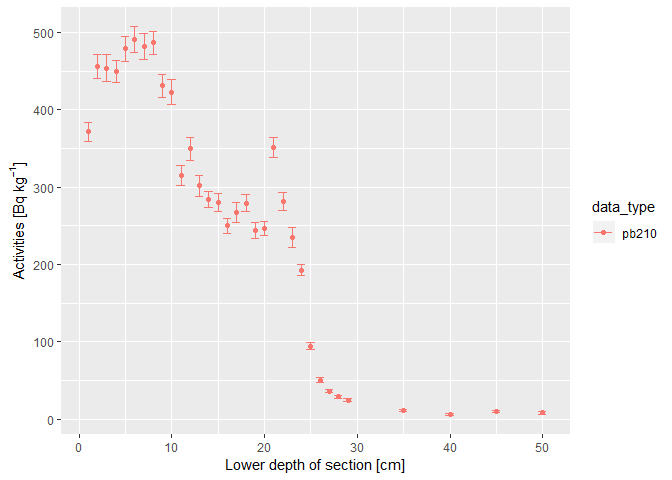
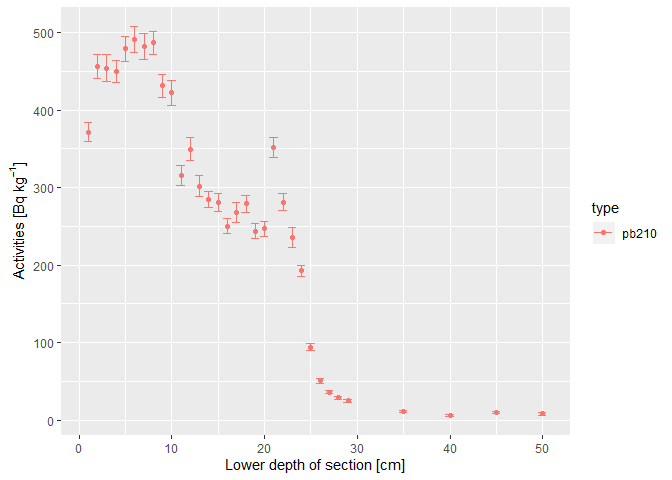
Updated the readme, corrected the formatting.

diff --git a/README.md b/README.md
@@ -3,19 +3,25 @@
 plumstan
 ========
 
-`plumstan` is an R package providing functions in order to compute age-depth models for sediment cores based on measured <sup>210</sup>Pb activities using a Bayesian statistical framework developed and implemented in the R package [`plum`](https://github.com/maquinolopez/Plum) by Aquino-López et al (2018). In contrast to `plum`, `plumstan` relies on the programming language [`Stan`](https://github.com/stan-dev/stan) (Carpenter et al. 2017). in order to perform the Bayesian calculations. This has the advantage that the Bayesian model can directly be integrated into more complex models and modified and resulting models can be handled using the functions of the [`rstan`](https://github.com/stan-dev/rstan) package (Stan Development Team 2019). Moreover, MCMC sampling is efficient via `Stan`'s Hamiltonian Monte Carlo algorithm.
+plumstan is an R package that computes age-depth models for sediment cores based on measured <sup>210</sup>Pb activities using a Bayesian statistical framework.
+
+This framework is developed and implemented in the R package [plum](https://github.com/maquinolopez/Plum) by Aquino-López et al (2018). In contrast to plum, plumstan relies on the programming language [Stan](https://github.com/stan-dev/stan) (Carpenter et al. 2017) in order to perform the Bayesian calculations. This has several advantages:
+
+1.  MCMC sampling is efficient via `Stan`'s Hamiltonian Monte Carlo algorithm (Stan Development Team 2019).
+2.  The model can be modified and integrated into complex models more easily.
+3.  The fitted model can be handled using the functions of the [rstan](https://github.com/stan-dev/rstan) package (Stan Development Team 2019)
 
 ### How to install
 
-Install `plumstan` with R:
+Install plumstan with R:
 
 ``` r
-devtools::install_github("henningte/plumstan")
+remotes::install_github("henningte/plumstan")
 ```
 
 ### How to use
 
-Load `plumstan` in R:
+Load plumstan in R:
 
 ``` r
 library("plumstan")
@@ -24,64 +30,61 @@ library("plumstan")
 Load the sample data (derived from the publication of Aquino-López et al (2018)) and inspect the first rows.
 
 ``` r
-head(plumstan::plumstan_sample_data)
-#>   data_type depth_lower depth_upper mass_density activity activity_sd
-#> 1     pb210           1           0        0.045   371.73       11.90
-#> 2     pb210           2           1        0.047   456.39       15.08
-#> 3     pb210           3           2        0.051   454.24       17.11
-#> 4     pb210           4           3        0.049   449.64       14.43
-#> 5     pb210           5           4        0.049   479.04       16.44
-#> 6     pb210           6           5        0.051   490.97       16.75
-#>   cs137_age cs137_age_sd
-#> 1        NA           NA
-#> 2        NA           NA
-#> 3        NA           NA
-#> 4        NA           NA
-#> 5        NA           NA
-#> 6        NA           NA
+head(plumstan::ps_sample_data)
+#>    type supported depth_lower depth_upper mass_density activity activity_sd age
+#> 1 pb210     FALSE           1           0        0.045   371.73       11.90  NA
+#> 2 pb210     FALSE           2           1        0.047   456.39       15.08  NA
+#> 3 pb210     FALSE           3           2        0.051   454.24       17.11  NA
+#> 4 pb210     FALSE           4           3        0.049   449.64       14.43  NA
+#> 5 pb210     FALSE           5           4        0.049   479.04       16.44  NA
+#> 6 pb210     FALSE           6           5        0.051   490.97       16.75  NA
+#>   age_sd
+#> 1     NA
+#> 2     NA
+#> 3     NA
+#> 4     NA
+#> 5     NA
+#> 6     NA
 ```
 
-For `plumstan` to use the data, it needs to be converted to an object of class `plumstan_data_input`.
+For plumstan to use the data, it needs to be converted to an object of class `ps_input`.
 
 ``` r
-d <- plumstan::plumstan_data_input(plumstan_sample_data)
+d <- plumstan::ps_input(ps_sample_data)
+class(d)
+#> [1] "ps_input"   "data.frame"
 ```
 
-Inspect the <sup>210</sup>Pb activity profile in order to identify layers that can be used in order to estimate the supported <sup>210</sup>Pb activity.
+plumstan supports the visual identification of layers for which the background <sup>210</sup>Pb activity is reached:
 
 ``` r
-plumstan:::plot.plumstan_data_input(d)
+plot(d)
 ```
 
 ![](man/figures/readme-unnamed-chunk-3-1.png)
 
-For the last 4 sections, the background <sup>210</sup>Pb activity level seems to be reached (Aquino-López et al. 2018). Therefore, the <sup>210</sup>Pb activities of the last 4 sections can be used to estimate the supported <sup>210</sup>Pb activity. The data are split accordingly into the part of the depth profile for which to estimate the age-depth relation (see below). For this, an index is constructed indicating which samples ar in which split:
+For the last 4 sections, the background <sup>210</sup>Pb activity level seems to be reached (Aquino-López et al. 2018). Therefore, the <sup>210</sup>Pb activities of the last 4 sections can be used to estimate the supported <sup>210</sup>Pb activity. Therefore, in `d`, column `d$supported` indicates that the deepest four layers should be used to estimate the supported <sup>210</sup>Pb activity:
 
 ``` r
-# index to split the data
-index_supported <- plumstan::plumstan_select_pb210_supported(data_input = d, d = 30)
-index_supported
-#>  [1]  TRUE  TRUE  TRUE  TRUE FALSE FALSE FALSE FALSE FALSE FALSE FALSE
-#> [12] FALSE FALSE FALSE FALSE FALSE FALSE FALSE FALSE FALSE FALSE FALSE
-#> [23] FALSE FALSE FALSE FALSE FALSE FALSE FALSE FALSE FALSE FALSE FALSE
+d$supported
+#>  [1]  TRUE  TRUE  TRUE  TRUE FALSE FALSE FALSE FALSE FALSE FALSE FALSE FALSE
+#> [13] FALSE FALSE FALSE FALSE FALSE FALSE FALSE FALSE FALSE FALSE FALSE FALSE
+#> [25] FALSE FALSE FALSE FALSE FALSE FALSE FALSE FALSE FALSE
 ```
 
-These data can be fed into the `plumstan_model` function. The function constructs the artificial sections with fixed thickness for the age-depth model and a `Stan` model. A `thickness` of the artificial sections of 1 cm is chosen.
+These data can be fed into the `ps_get_model` function. The function constructs a set of "artificial" depth layers wih fixed depth increments for the age-depth model and a Stan model. A `thickness` of the artificial sections of 1 cm is chosen.
 
 ``` r
-d_model <- 
-  plumstan::plumstan_get_model(data_input = d, 
-                               index_supported_pb210 = index_supported,
-                               thickness = 1)
+d_model <- plumstan::ps_get_model(data_input = d, thickness = 1)
 ```
 
-`plumstan_model` constructs a `plumstan_model` object that contains the data and the compiled `Stan` model from which `rstan`'s MCMC algorithm can sample.
+`ps_get_model` constructs a `ps_model` object that contains the data and the compiled Stan model from which rstan's MCMC algorithm can sample.
 
-`plumstan_fit` passes the data to `rstan::stan` in order to fit the `Stan` model contained in `d_model`. Thus, all options available for `rstan::stan` are also available for `plumstan_fit`.
+`plumstan_fit` passes the data to `rstan::stan` in order to fit the Stan model contained in `d_model`. Thus, all options available for `rstan::stan` are also available for `plumstan_fit`.
 
 ``` r
 d_fit <- 
-  plumstan::plumstan_fit_model(
+  plumstan::ps_fit_model(
     d_model, 
     chains = 1,
     iter = 1500,
@@ -110,51 +113,48 @@ d_fit <-
 #> Chain 1: Iteration: 1400 / 1500 [ 93%]  (Sampling)
 #> Chain 1: Iteration: 1500 / 1500 [100%]  (Sampling)
 #> Chain 1: 
-#> Chain 1:  Elapsed Time: 1.249 seconds (Warm-up)
-#> Chain 1:                1.204 seconds (Sampling)
-#> Chain 1:                2.453 seconds (Total)
+#> Chain 1:  Elapsed Time: 2.087 seconds (Warm-up)
+#> Chain 1:                1.296 seconds (Sampling)
+#> Chain 1:                3.383 seconds (Total)
 #> Chain 1:
-#> Warning: There were 1 divergent transitions after warmup. Increasing adapt_delta above 0.8 may help. See
-#> http://mc-stan.org/misc/warnings.html#divergent-transitions-after-warmup
-#> Warning: Examine the pairs() plot to diagnose sampling problems
 ```
 
-`d_fit` is an object of class `plumstan_fit` that is an object of class `stanfit`. Thus, all functions of the R packages `rstan` and `bayesplot` may be used in order to investigate and validate the fitted model.
+`d_fit` is an object of class `stanfit`. Thus, all functions of the R packages `rstan` and `bayesplot` may be used in order to investigate and validate the fitted model.
 
-The sediment age posterior predictive distributions (i.e. the MCMC samples after warmup) for each depth of the input sediment profile can be extracted as `data.frame` by passing `d_model` and `d_fit` to the function `plumstan::plumstan_extract`.
+The sediment age posterior predictive distributions (i.e. the MCMC samples after warmup) for each depth of the input sediment profile can be extracted as `data.frame` by passing `d_model` and `d_fit` to the function `ps_extract_samples`.
 
 ``` r
 d_extracted_fit <- 
-  plumstan::plumstan_extract_samples(
+  plumstan::ps_extract_samples(
     x = d_fit, 
-    plumstan_model = d_model)
+    ps_model = d_model)
 ```
 
-`d_extracted_fit` is a `data.frame` with three columns: (1) The depth of `d_chronology` the row corresponds to (`depth_lower`), (2) the iter of the MCMC (`iter`), (3) the sampled sediment age (`age`), (4) the sampled nusupported <sup>210</sup>Pb activity (`p_unsupported`), (5) the sampled depth accumulation rate until this depth (`m`), (6) the sampled memory parameter ω (`omega`), (7) the sampled supported <sup>210</sup>Pb activity (`p_supported`).
+`d_extracted_fit` is a `data.frame` containing the sampled parameter values (e.g. the estimated age values and Pb<sup>210</sup> activites) for both the measured depth layers (`d_extracted_fit$depth_profile == "measured"`) and the "artificial" depth profile (`d_extracted_fit$depth_profile == "artificial"`):
 
 ``` r
 head(d_extracted_fit)
 #>   iter data_type depth_profile depth_lower depth_upper      age
-#> 1    1     pb210      measured          29          28 286.1103
-#> 2    2     pb210      measured          29          28 255.1541
-#> 3    3     pb210      measured          29          28 206.9914
-#> 4    4     pb210      measured          29          28 234.0364
-#> 5    5     pb210      measured          29          28 261.5354
-#> 6    6     pb210      measured          29          28 207.1425
+#> 1    1     pb210      measured          29          28 252.6681
+#> 2    2     pb210      measured          29          28 180.4133
+#> 3    3     pb210      measured          29          28 221.9439
+#> 4    4     pb210      measured          29          28 211.1097
+#> 5    5     pb210      measured          29          28 247.1448
+#> 6    6     pb210      measured          29          28 191.5128
 #>   depth_accumulation_rate depth_accumulation_rate_alpha pb210_tot
-#> 1                      NA                            NA  15.25950
-#> 2                      NA                            NA  18.16561
-#> 3                      NA                            NA  17.48225
-#> 4                      NA                            NA  18.76848
-#> 5                      NA                            NA  15.99730
-#> 6                      NA                            NA  15.30078
+#> 1                      NA                            NA  13.10463
+#> 2                      NA                            NA  14.75933
+#> 3                      NA                            NA  12.50621
+#> 4                      NA                            NA  14.22184
+#> 5                      NA                            NA  15.28399
+#> 6                      NA                            NA  15.32130
 #>   pb210_supported     omega
-#> 1        4.559376 0.2716322
-#> 2        4.806893 0.2765001
-#> 3        4.479510 0.3350715
-#> 4        4.751313 0.3170354
-#> 5        4.628442 0.3118351
-#> 6        4.359829 0.3030630
+#> 1      0.04174404 0.2933825
+#> 2      0.03609904 0.4016763
+#> 3      0.02699996 0.3228094
+#> 4      0.03502281 0.3250323
+#> 5      0.04125792 0.3219240
+#> 6      0.03867965 0.3418247
 ```
 
 With `d_extracted_fit`, it is easy to plot the modeled age-depth profile, e.g. using functions of `ggplot2`: Here, I plotted the estimated sediment ages versus lower section depths according to the first 500 draws of the MCMC algorithm.
@@ -185,7 +185,7 @@ ggplot() +
                      y = pb210_tot, 
                      group = iter),
        alpha = 0.04) +
-  geom_point(data = d[!index_supported,], 
+  geom_point(data = d[!d$supported,], 
              mapping = aes(x = depth_lower, 
                            y = activity * 10 * mass_density),
              shape = 21,
@@ -197,7 +197,7 @@ ggplot() +
 
 ![](man/figures/readme-unnamed-chunk-10-1.png)
 
-Packages such as [`bayesplot`](https://github.com/stan-dev/bayesplot) can be used to validate the model since it is built using `rstan`. For example, one may plot the marginal posterior distributions of the supported <sup>210</sup>Pb activity and the memory parameter ;:
+Packages such as [bayesplot](https://github.com/stan-dev/bayesplot) can be used to validate the model since it is built using `rstan`. For example, one may plot the marginal posterior distributions of the supported <sup>210</sup>Pb activity and the memory parameter ;:
 
 ``` r
 # load the bayesplot package
@@ -228,7 +228,6 @@ bayesplot::mcmc_trace(d_parameters,
 ``` r
 # load package stringr (just to construct an index for the predicted values in d_parameters)
 library(stringr)
-#> Warning: package 'stringr' was built under R version 3.4.4
 
 # define an index for predicted values in d_parameters
 d_predicted_index <- stringr::str_detect(colnames(d_parameters), "^p_tot\\.")
@@ -241,13 +240,13 @@ bayesplot::ppc_dens_overlay(y = d_model$stan_data$data_chronology_y,
 
 ![](man/figures/readme-unnamed-chunk-13-1.png)
 
-The manual and vignette contain more information on the functions and important things to consider during Bayesian analysis, such as the choice of prior parameters.
+The manual contains more information on the functions and important things to consider during Bayesian analysis, such as the choice of prior parameters.
 
 ### How it works
 
-`plumstan` estimates the age of sediment layers (age-depth model) based on measured depth profiles of <sup>210</sup>Pb activities, needing measured <sup>210</sup>Pb activities and the corresponding measurement errors as input and yielding a posterior probability distribution (PPD) of the age of each depth section.
+plumstan estimates the age of sediment layers (age-depth model) based on measured depth profiles of <sup>210</sup>Pb activities, needing measured <sup>210</sup>Pb activities and the corresponding measurement errors as input and yielding a posterior probability distribution (PPD) of the age of each depth section.
 
-`plumstan` uses for this the statistical framework developed by Aquino-López et al (2018) that is inspired by the statistical framework of the popular software package for <sup>14</sup>C dating, [`Bacon`](https://github.com/cran/rbacon) (Blaauw and Christen 2011).
+plumstan uses for this the statistical framework developed by Aquino-López et al (2018) that is inspired by the statistical framework of the popular software package for <sup>14</sup>C dating, [Bacon](https://github.com/cran/rbacon) (Blaauw and Christen 2011).
 
 The age-depth profile is modeled conditional on (1) the decay of <sup>210</sup>Pb in the sediment leading to the measured <sup>210</sup>Pb activity profile and (2) a sediment accumulation model.
 
@@ -255,13 +254,13 @@ The sediment accumulation model models the sediment accumulation \[yr cm<sup>-1<
 
 The thickness can be specified manually. Increasing the thickness results in fewer sections and thus a less smooth representation of the age depth profile.
 
-Key features of the sediment accumulation model are that (1) sediment accumulation rate is ≥ 0 and (2) the sediment accumulation rate of a constructed section depends on the sediment accumulation of the next deeper section. The strength of this dependency is estimated by the model, ranging from 0 (the sediment accumulation rates of subsequent sections are independent) to 1 (the sediment accumulation rates of subsequent sections are identical). These features lead to realistic constraints for estimated sediment accumulation rates (Aquino-López et al. 2018, Blaauw and Christen (2011)).
+Key features of the sediment accumulation model are that sediment accumulation rate is ≥ 0, and the sediment accumulation rate of a constructed section depends on the sediment accumulation of the next deeper section. The strength of this dependency is estimated by the model, ranging from 0 (the sediment accumulation rates of subsequent sections are independent) to 1 (the sediment accumulation rates of subsequent sections are identical). These features lead to realistic constraints for estimated sediment accumulation rates (Aquino-López et al. 2018, Blaauw and Christen (2011)).
 
 ### How to cite
 
 Please cite this software package as:
 
-> Henning Teickner, (2019). *plumstan: Bayesian <sup>210</sup>Pb dating with Stan*. Accessed 07 Okt 2019. Online at <https://github.com/henningte/plumstan>.
+> Henning Teickner, (2020). *plumstan: Bayesian <sup>210</sup>Pb dating with Stan*. Accessed 23 Apr 2020. Online at <https://github.com/henningte/plumstan>.
 
 ### Licenses
 
@@ -277,7 +276,7 @@ We welcome contributions from everyone. Before you get started, please see our [
 
 ### Sources
 
-The complete data is derived from Aquino-López et al (2018) and was restructured to match the requirements of `plumstan`. The original article containing the data can be downloaded from <https://link.springer.com/article/10.1007%2Fs13253-018-0328-7> and is distributed under the Creative Commons Attribution 4.0 International License (<http://creativecommons.org/licenses/by/4.0/>).
+The complete data is derived from Aquino-López et al (2018) and was restructured to match the requirements of plumstan. The original article containing the data can be downloaded from <https://link.springer.com/article/10.1007%2Fs13253-018-0328-7> and is distributed under the Creative Commons Attribution 4.0 International License (<http://creativecommons.org/licenses/by/4.0/>).
 
 ### References
 
